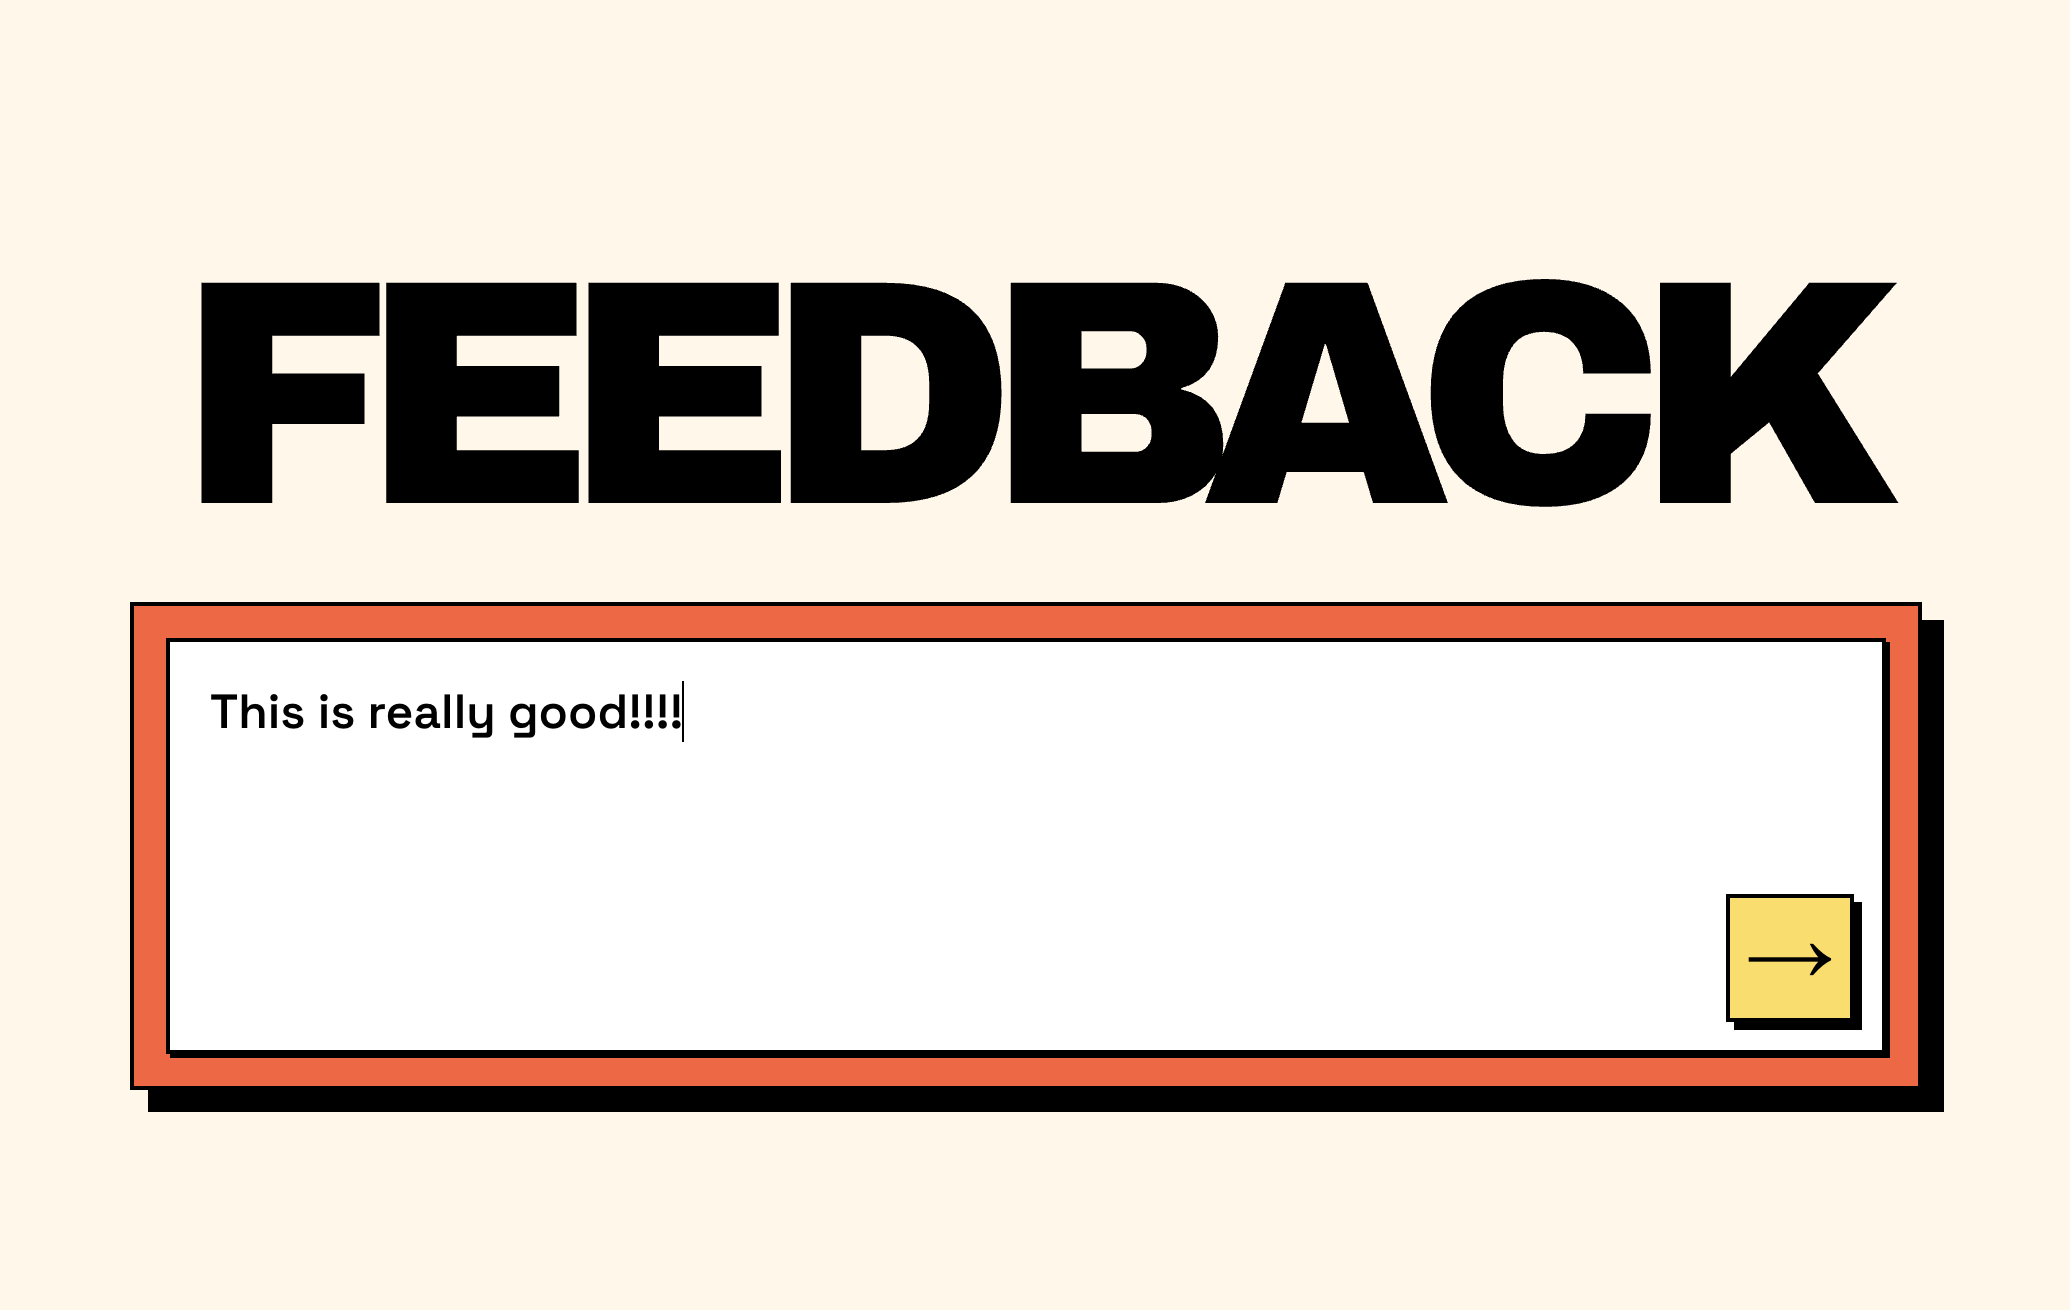
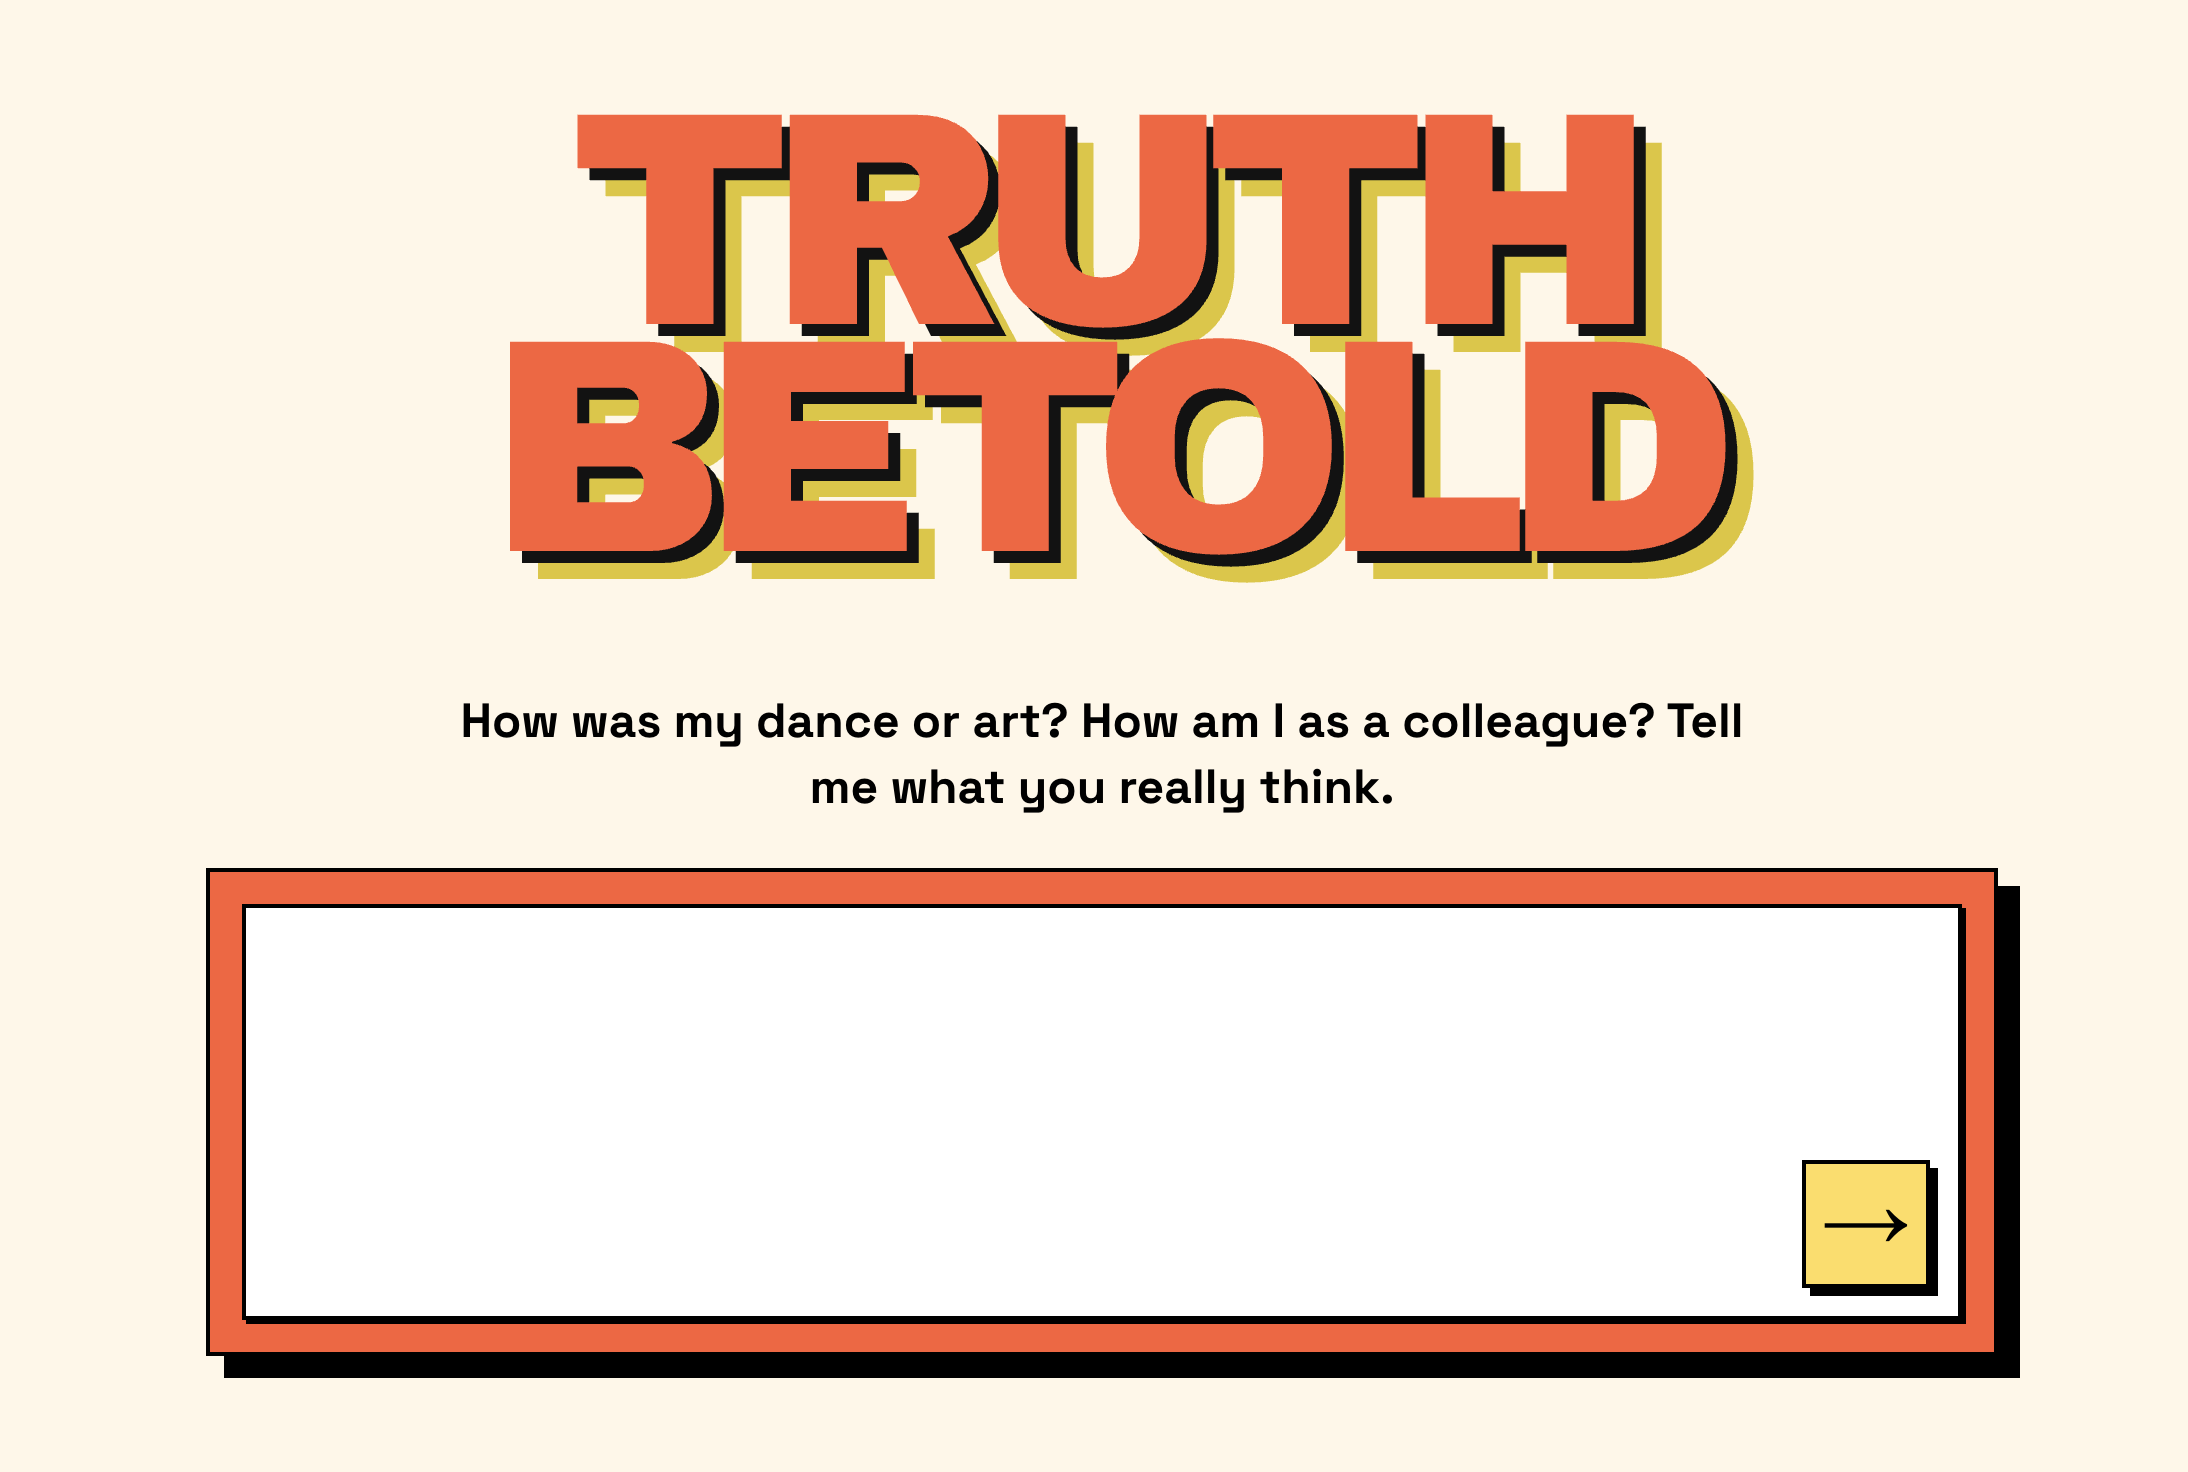
feat: style changes and change headline

diff --git a/frontend/src/app/c/[slug]/page.tsx b/frontend/src/app/c/[slug]/page.tsx
@@ -5,9 +5,18 @@ export default function CampaignFeedbackPage() {
   return (
     <main className="bg-background text-foreground grid min-h-screen place-items-center overflow-hidden p-5 sm:p-8">
       <section className="w-full max-w-4xl">
-        <h1 className="font-head mb-6 text-center text-[clamp(3.8rem,15vw,10rem)] leading-[0.78] tracking-[-0.09em] uppercase sm:mb-10">
-          Feedback
+        <h1
+          className="font-head mb-12 text-center text-[clamp(3.75rem,14vw,9.5rem)] leading-[0.72] tracking-[-0.075em] text-[#ff5c35] uppercase sm:mb-16"
+          style={{ textShadow: '6px 6px 0 #121212, 14px 14px 0 rgb(223, 198, 36)' }}
+        >
+          <span className="block mb-1">Truth</span>
+          <span className="inline-block sm:mr-4">Be </span>
+          <span className="inline-block">Told</span>
         </h1>
+
+        <p className="mb-5 max-w-2xl mx-auto text-center font-sans text-xl leading-snug font-bold sm:mb-6 sm:text-2xl">
+          How was my dance or art? How am I as a colleague? Tell me what you really think.
+        </p>
 
         <form className="border-border bg-accent relative border-2 p-3 shadow-xl sm:p-4">
           <Textarea
